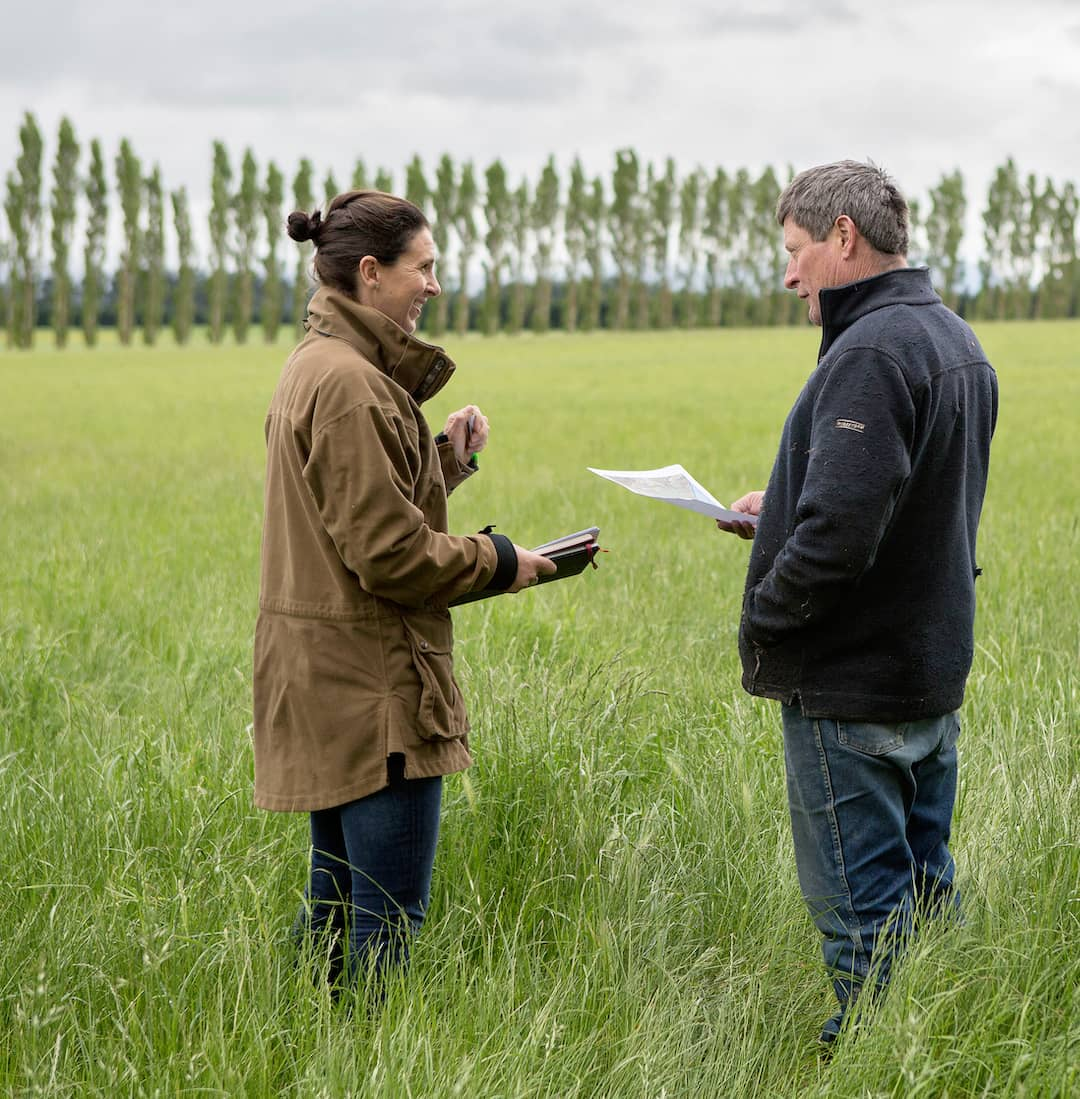
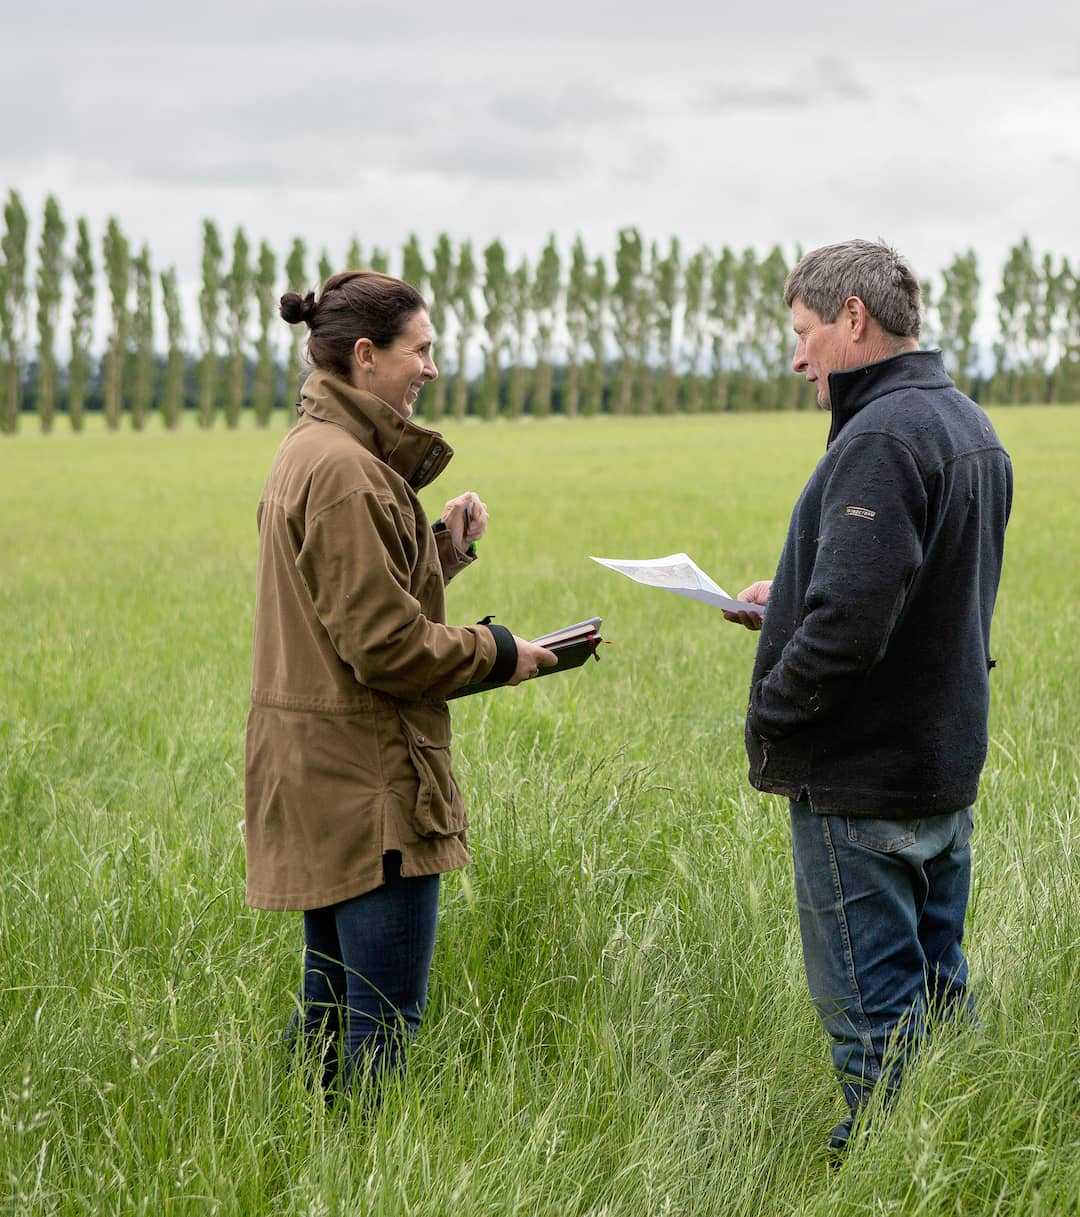
adjust image for Services and remove some surplus code

diff --git a/index.html b/index.html
@@ -117,7 +117,7 @@
                     </div>
                     </div>
                 </div> 
-                <div class="col-lg-6 col-mt-lg"> 
+                <div class="col-lg-6 col-mt-lg d-flex flex-column justify-content-center"> 
                     <figure class="ag-home-about-img">
                         <img src="images/common/advisor.jpg" alt="">
                         <figcaption>Caption here is entirely possible, not designed/styled yet</figcaption>
@@ -126,99 +126,6 @@
             </div>
         </div> 
         <!-- HOME ABOUT END -->
-
-        <!-- WIDE SECTION FEATURE START 
-        <div class="ws-feature mt-5 mb-5">
-            <div class="row no-gutters"> 
-                <div class="col-lg-6">
-                    <div class="ws-feature-left">
-                    </div>
-                </div> 
-                <div class="col-lg-6">
-                    <div class="ws-feature-right">
-                        <div class="feature-right-content">
-                            <div class="layer-box">
-                                <div class="media">
-                                  <img src="images/icons/farmer.svg" class="mr-3" alt="...">
-                                  <div class="media-body">
-                                    <h4 class="mt-0">Industry Oriented</h4>
-                                    <p>Enabling Ecosystem for Food and Agriculture through Digital Innovation at the World Summit.</p>
-                                  </div>
-                                </div>
-                            </div>
-                            <div class="layer-box">
-                                <div class="media">
-                                    <img src="images/icons/fruits.svg" class="mr-3" alt="...">
-                                  <div class="media-body">
-                                    <h4 class="mt-0">Fresh Vegetables</h4>
-                                    <p>The mission of Agroly is to facilitate the discussion on the adoption and use digital innovations.</p>
-                                  </div>
-                                </div>
-                            </div>
-                            <div class="layer-box">
-                                <div class="media">
-                                    <img src="images/icons/agronomy.svg" class="mr-3" alt="...">
-                                  <div class="media-body">
-                                    <h4 class="mt-0">We are Passionate</h4>
-                                    <p>Latest analysis by the Cadre Harmonisé indicates an increase in acute food insecurity of more than percent.</p>
-                                  </div>
-                                </div>
-                            </div>
-                            <div class="layer-box">
-                                <div class="media">
-                                    <img src="images/icons/wheat.svg" class="mr-3" alt="...">
-                                  <div class="media-body">
-                                    <h4 class="mt-0">Natural Products</h4>
-                                    <p>The Food and Agriculture Organization’s Food Price Index averaged 94.2 points in July, a 1.2 percent increase.</p>
-                                  </div>
-                                </div>
-                            </div>
-                        </div>
-                    </div> 
-                </div> 
-            </div> 
-            <div class="counter-wrapper">
-                <div class="container">
-                    <div class="counter-inner-box">
-                        <div class="media">
-                            <img src="images/icons/agronomy-w.svg" class="mr-3" alt="...">
-                            <div class="media-body">
-                                <div class="counter" data-count="480">0</div>
-                                <p>Happy Customers</p>
-                            </div>
-                        </div>
-                    </div>
-                    <div class="counter-inner-box">
-                        <div class="media">
-                            <img src="images/icons/farmer-w.svg" class="mr-3" alt="...">
-                            <div class="media-body">
-                                <div class="counter" data-count="733">0</div>
-                                <p>Cultivate Yards</p>
-                            </div>
-                        </div>
-                    </div>
-                    <div class="counter-inner-box">
-                        <div class="media">
-                            <img src="images/icons/growing-w.svg" class="mr-3" alt="...">
-                            <div class="media-body">
-                                <div class="counter" data-count="256">0</div>
-                                <p>Happy Customers</p>
-                            </div>
-                        </div>
-                    </div>
-                    <div class="counter-inner-box">
-                        <div class="media">
-                            <img src="images/icons/growth.svg" class="mr-3" alt="...">
-                            <div class="media-body">
-                                <div class="counter" data-count="1450">0</div>
-                                <p>Awards Received</p>
-                            </div>
-                        </div>
-                    </div>
-                </div>
-            </div> 
-        </div>  
-         WIDE SECTION FEATURE END -->
 
         <!-- ADVISORS START -->
         <div id="advisors" class="carousel-parallax2">
@@ -391,9 +298,6 @@
                         <p>Supporting farmers in the Hurunui</p>
                     </div>
                     <div class="col-lg-6">
-                        <!-- <ul class="bottom-social">
-                            <li><a href="#" target="_blank"><i class="fab fa-facebook"></i></a></li>
-                        </ul> -->
                         <div class="footer-btns">
                             <a class="bottom-social" href="#" target="_blank"><i class="fab fa-facebook"></i></a>
                             <a href="mailto:admin@hurunuilandcaregroup.co.nz" class="btn btn-green button">Contact Us</a> 
